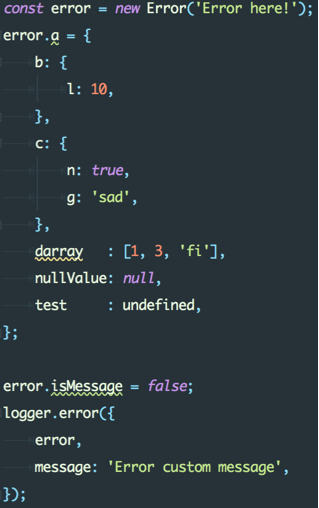
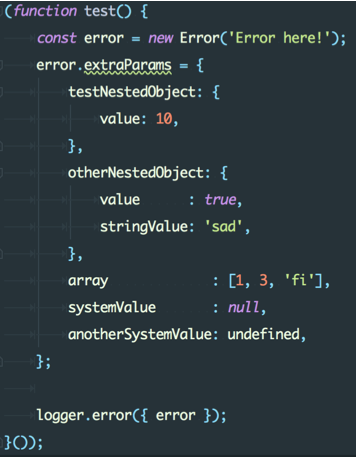
docs(README): fix docs and change examples screenshots

diff --git a/example.js b/example.js
@@ -13,22 +13,22 @@ const logger = bunyan.createLogger({
 	],
 	serializers: bunyan.stdSerializers,
 });
+
 (function test() {
 	const error = new Error('Error here!');
-	error.a = {
-		b: {
-			l: 10,
+	error.extraParams = {
+		testNestedObject: {
+			value: 10,
 		},
-		c: {
-			n: true,
-			g: 'sad',
+		otherNestedObject: {
+			value      : true,
+			stringValue: 'sad',
 		},
-		d  : [1, 3, 'fi'],
-		sd : null,
-		lol: undefined,
+		array             : [1, 3, 'fi'],
+		systemValue       : null,
+		anotherSystemValue: undefined,
 	};
 	
-	error.isMessage = false;
 	logger.error({ error });
 	logger.warn({ error });
 	logger.info('test');
